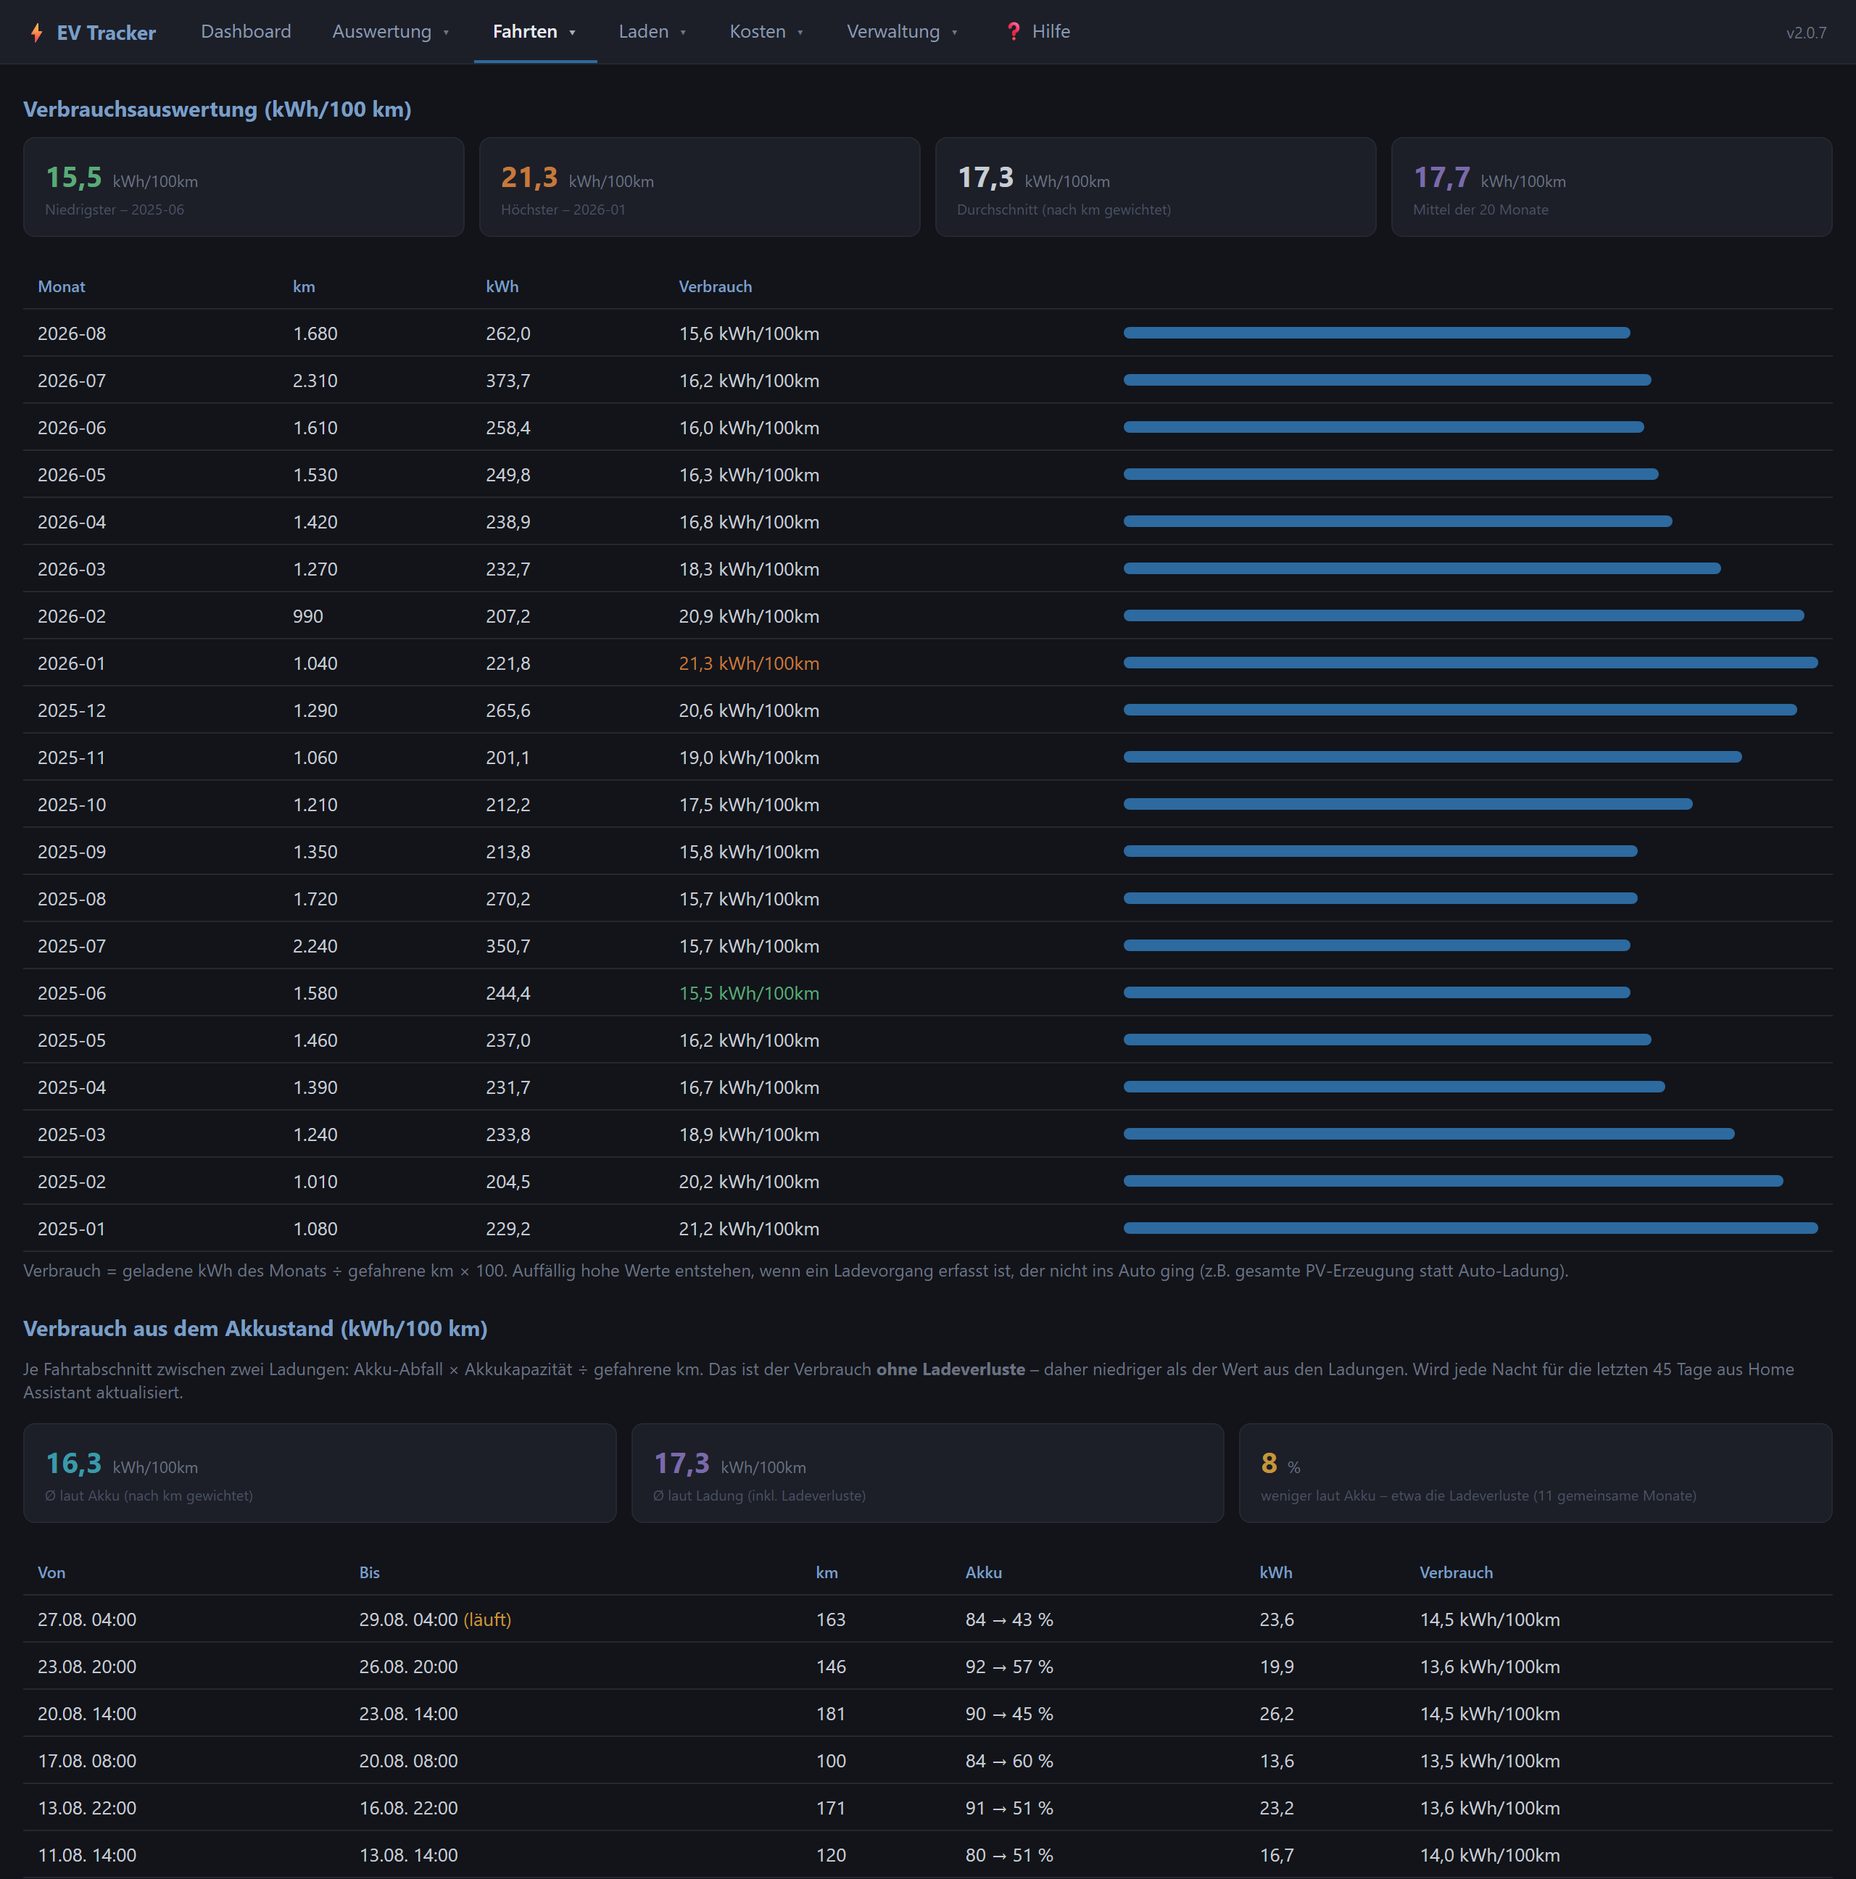
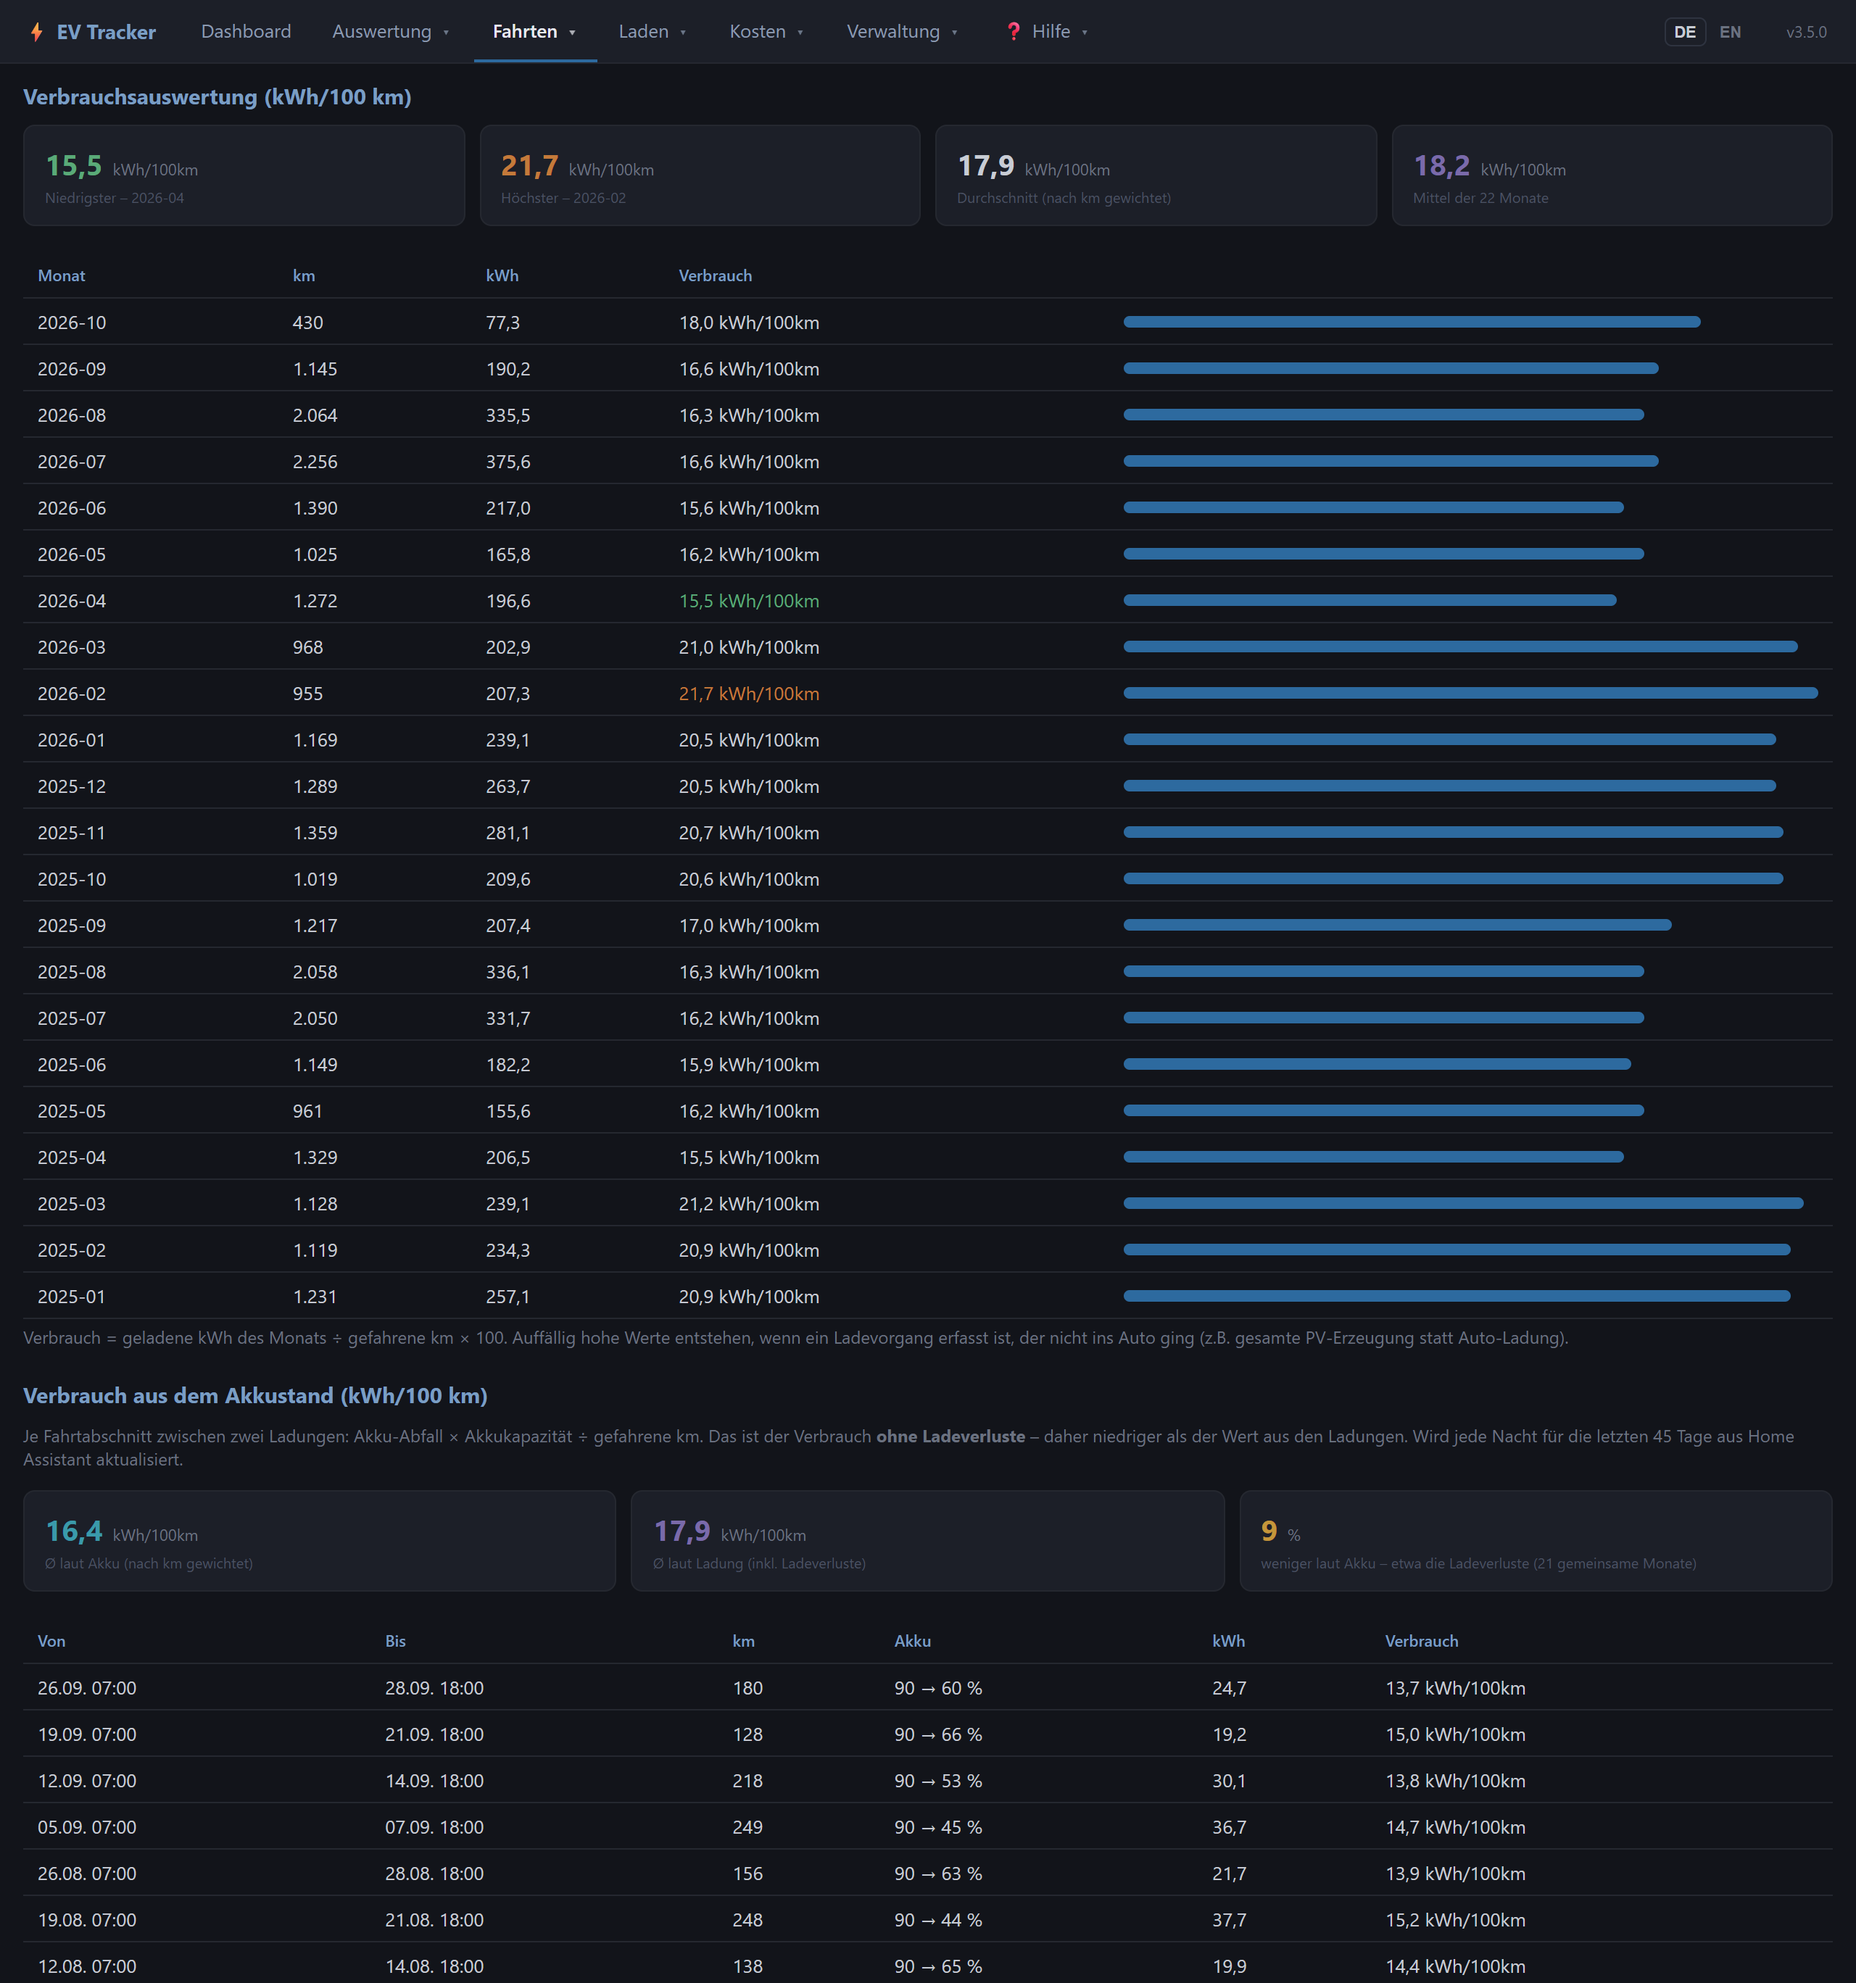
Neue Screenshots fuer Version 3.5.0
- Dashboard mit Amortisation, Sprachumschalter und Erstzulassung
- Ladetarife: "Lohnt sich das Abo?" statt Preisverlauf (Alt-Text im README)
- Diagramme, Statistik, Verbrauch und Monatsbericht mit neuen Demodaten

diff --git a/README.md b/README.md
@@ -31,7 +31,7 @@ nicht auf ein bestimmtes Modell festgelegt. Oberfläche, Hilfe und Berichte gibt
 <tr>
 <td><a href="https://raw.githubusercontent.com/HasenbeinMH/ev-tracker-ha/main/docs/screenshot-verbrauch.png"><img src="https://raw.githubusercontent.com/HasenbeinMH/ev-tracker-ha/main/docs/screenshot-verbrauch.png" alt="Verbrauch je Monat und aus dem Akkustand"></a>
 <br><b>Echter Verbrauch</b> – je Monat aus den Ladungen und je Fahrt aus dem Akkustand. Die Differenz zeigt die Ladeverluste.</td>
-<td><a href="https://raw.githubusercontent.com/HasenbeinMH/ev-tracker-ha/main/docs/screenshot-ladetarife.png"><img src="https://raw.githubusercontent.com/HasenbeinMH/ev-tracker-ha/main/docs/screenshot-ladetarife.png" alt="Ladetarife mit Preisverlauf"></a>
+<td><a href="https://raw.githubusercontent.com/HasenbeinMH/ev-tracker-ha/main/docs/screenshot-ladetarife.png"><img src="https://raw.githubusercontent.com/HasenbeinMH/ev-tracker-ha/main/docs/screenshot-ladetarife.png" alt="Ladetarife: Lohnt sich das Abo?"></a>
 <br><b>Ladetarife im Griff</b> – Abos mit Preisverlauf, Grundgebühr und Blockiergebühr, im Vergleich zum Heimstrom.</td>
 </tr>
 <tr>
